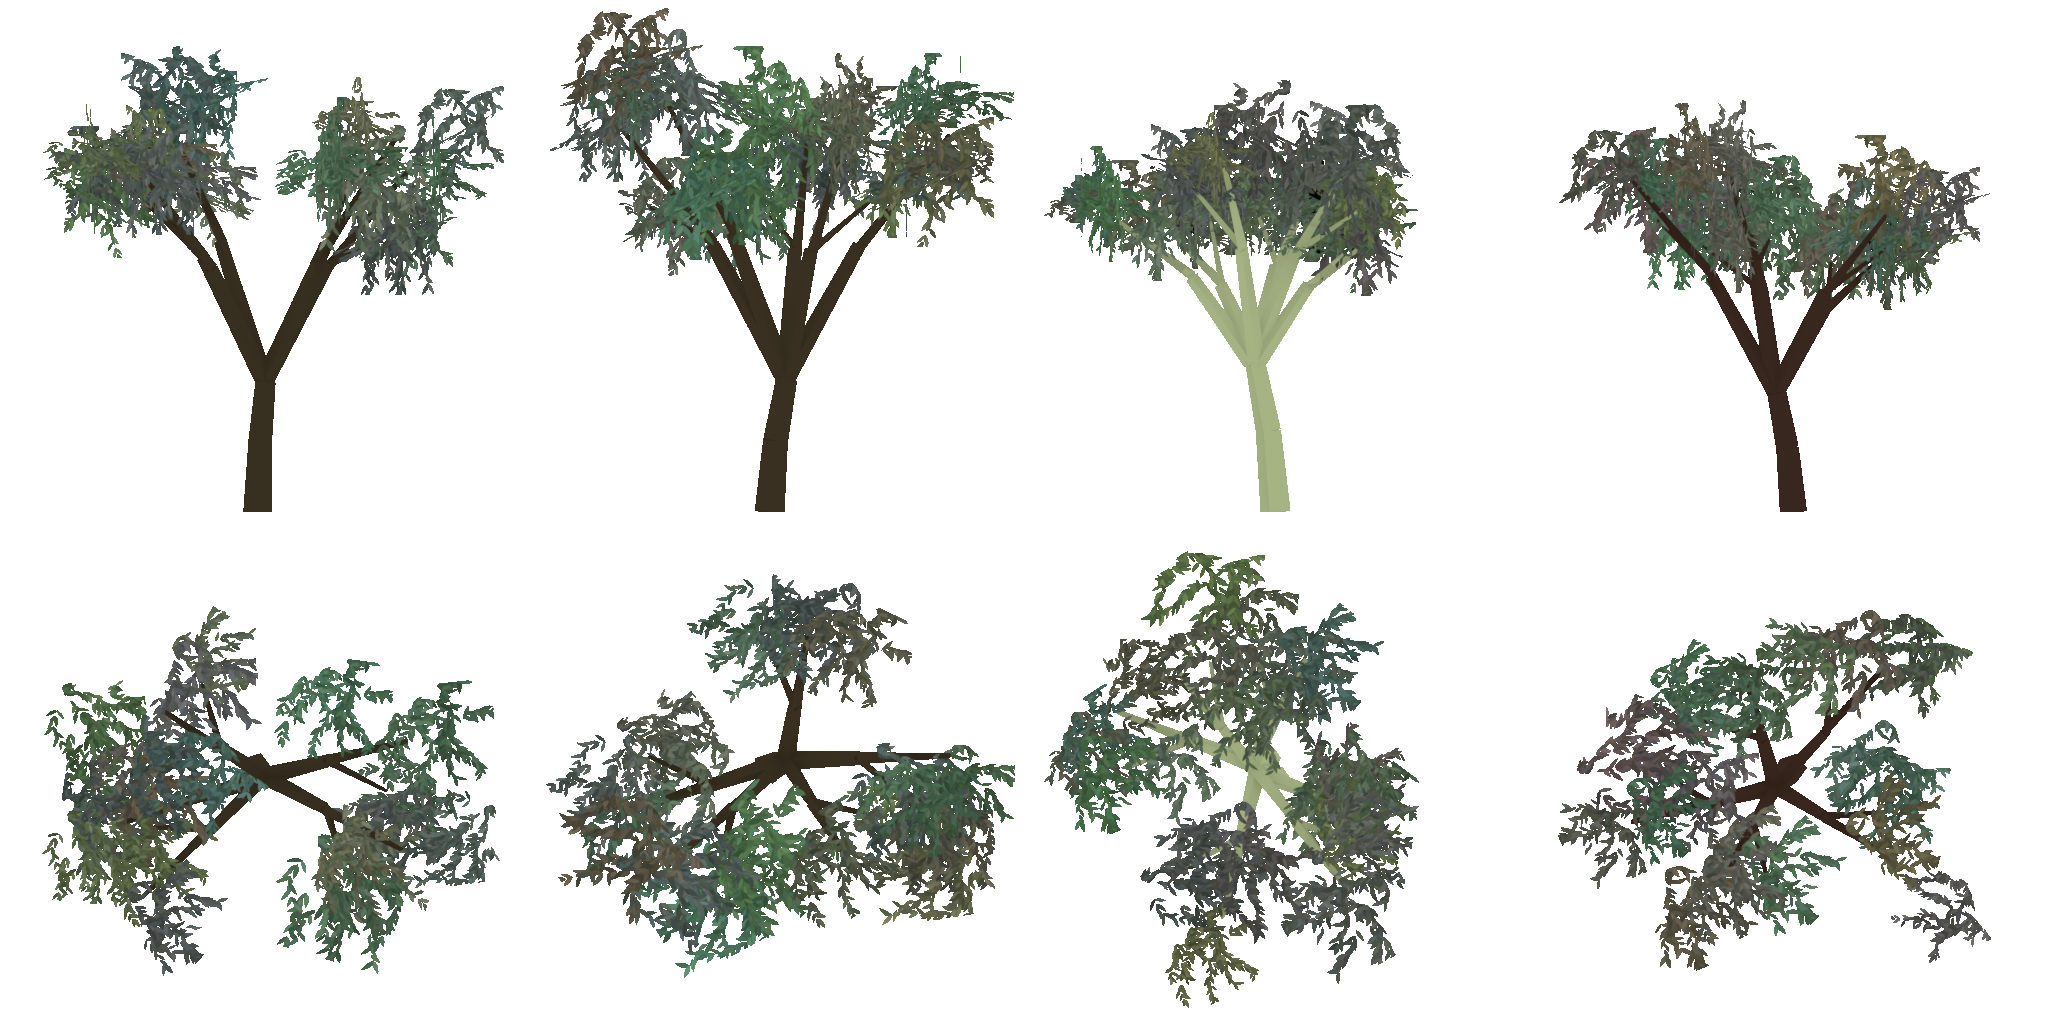
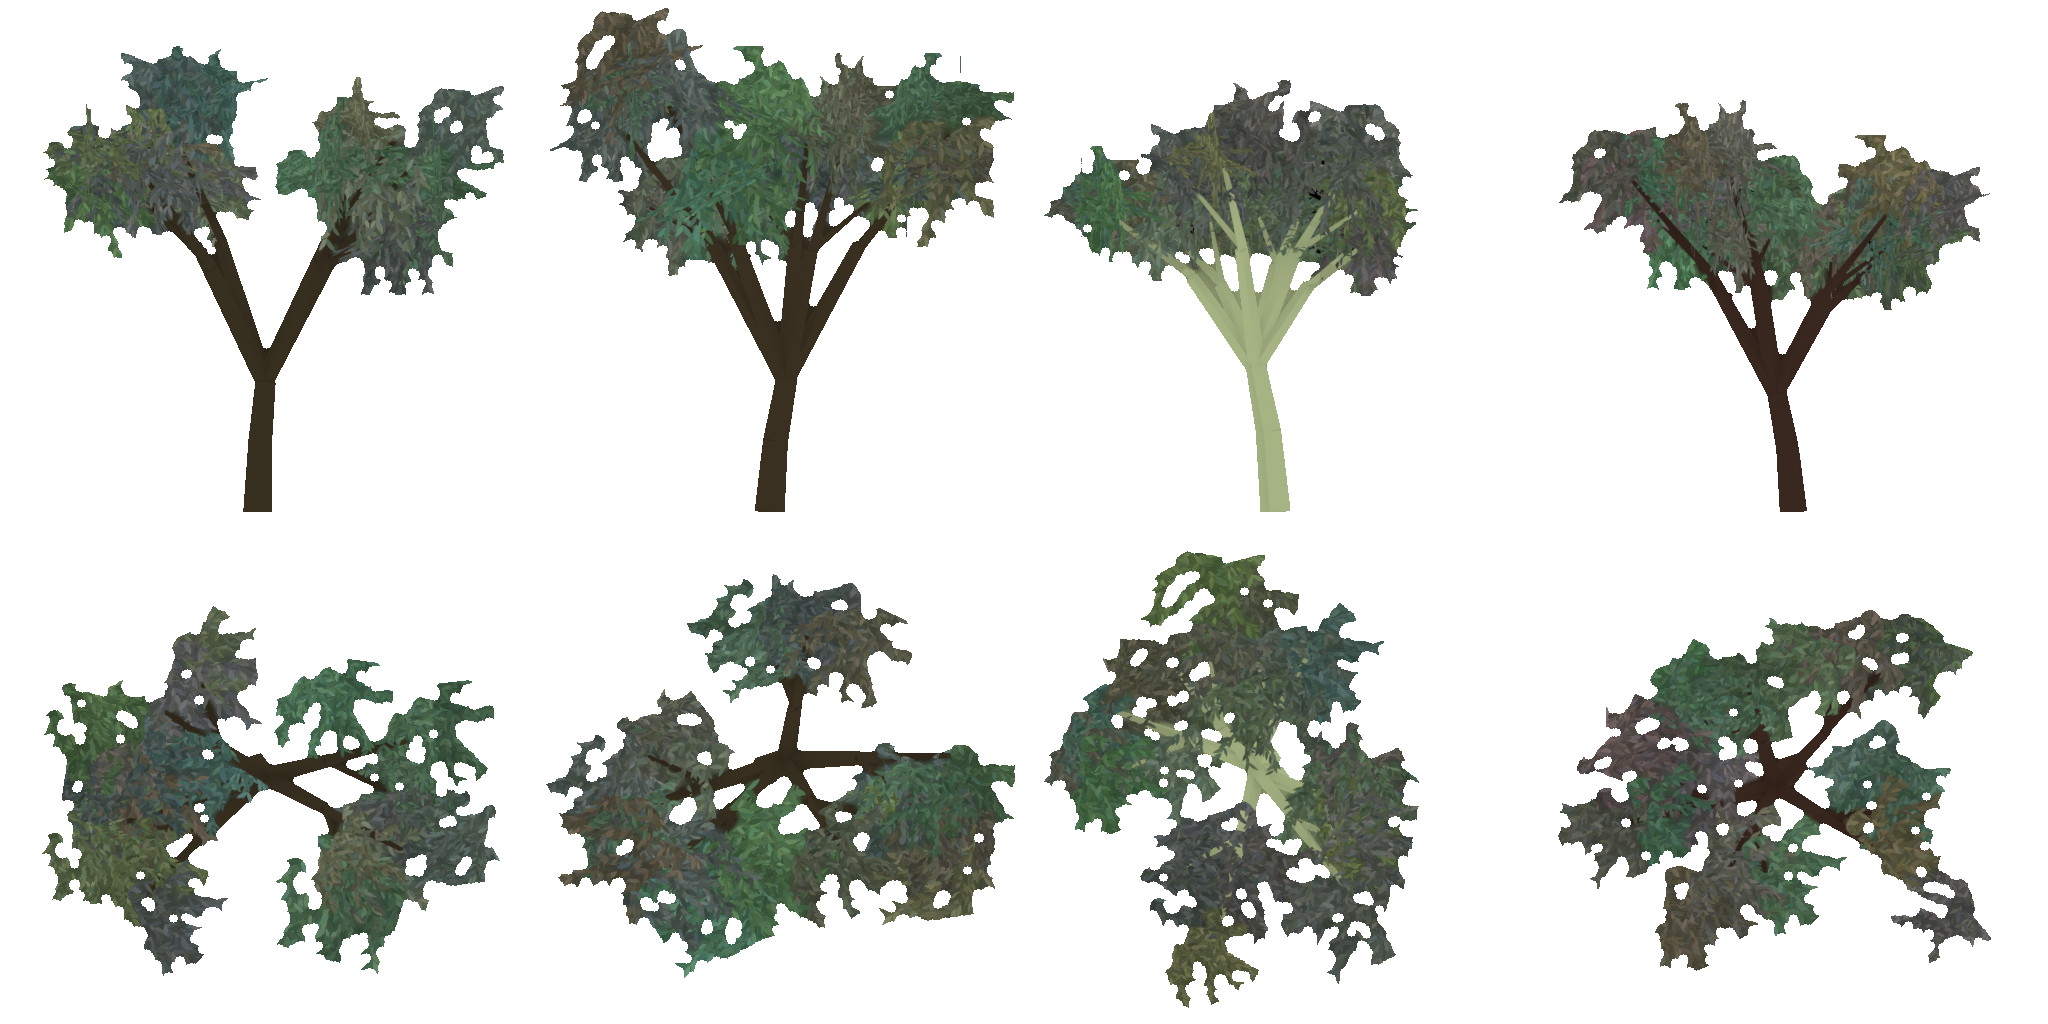
Traeger backdrop: gums lit (leaf-card shader), Microsoft footprints for buildings OSM lacks, label-free flat nadir shots
The standard material's alpha scissor drew backdrop leaf cards black under the match light;
one-sided cut-out backdrop materials now go through oval3d_backdrop_leaf.gdshader. near.py adds
~500 buildings from Microsoft's Global ML Building Footprints (ODbL) where OpenStreetMap has none.
ge_nadir.js turns Google Earth's labels and 3D buildings off (flat imagery, no lean); field level 573 m.
Far gum impostor crowns closed into masses; preinspect_look can wait longer (PREINSPECT_FRAMES).

Claude-Session: https://claude.ai/code/session_019pCf9d7p4LXdEznqYFG1Nq

diff --git a/tools/grounds/traeger/scene/qa/ge_nadir.js b/tools/grounds/traeger/scene/qa/ge_nadir.js
@@ -1,7 +1,7 @@
 // Google Earth straight-down views for mosaic.py (measuring only: the shots stay out of the repo).
 //   node ge_nadir.js nadir.json OUTDIR FROM TO      (two processes on halves of the list go twice as fast)
 // A fresh page per view; Google Earth's popups are found and closed by find_popup.py, and a shot under
-// 1.8 MB (the globe, or tiles still loading) is taken again.
+// MIN_BYTES (the globe, or tiles still loading) is taken again.
 const { chromium } = require('playwright');
 const path = require('path');
 const fs=require('fs'); const cp=require('child_process');
@@ -19,6 +19,12 @@ const fs=require('fs'); const cp=require('child_process');
         await p.goto(url, {timeout:90000});
         await p.waitForTimeout(40000);
         await p.keyboard.press('Escape');
+        // Basemap settings (Ctrl+B): "Clean" (no place names or pins, which would be traced as ground)
+        // and 3D buildings off (flat imagery with no lean); then close the panel and let the tiles load.
+        await p.keyboard.press('Control+b'); await p.waitForTimeout(2500);
+        await p.mouse.click(288,396); await p.waitForTimeout(800);
+        await p.mouse.click(273,840); await p.waitForTimeout(800);
+        await p.mouse.click(296,131); await p.waitForTimeout(8000);
         for (let k=0;k<3;k++) {
           const tmp=`${outd}/_tmp_${from}.png`;
           await p.screenshot({path: tmp});
@@ -28,7 +34,7 @@ const fs=require('fs'); const cp=require('child_process');
         }
         await p.waitForTimeout(2500);
         const buf = await p.screenshot({path: `${outd}/${v.name}.png`});
-        ok = buf.length > 1800000;
+        ok = buf.length > parseInt(process.env.MIN_BYTES||'1800000');
         console.log('shot', v.name, buf.length, ok);
       } catch(e){ console.log('fail',v.name,e.message); }
       await p.close();

diff --git a/tools/grounds/traeger/scene/near.py b/tools/grounds/traeger/scene/near.py
@@ -6,12 +6,14 @@
   the stadium and following the real heights from 350 m out (Billy Goat Hill to the east, the rise to the
   ranges), painted by paint.py: an inner map 500 m a side at 0.24 m a pixel round the stadium and an outer
   map 2.6 km a side at 1.27 m.
-- Buildings: every OpenStreetMap footprint outside the stadium model (bldg.py), each roof in its colour off
+- Buildings: every OpenStreetMap footprint outside the stadium model, and Microsoft's footprints for the
+  ~500 that OpenStreetMap lacks (bldg.py), each roof in its colour off
   Google Earth's straight-down views (MOSAIC: the mosaic of them, 0.5 m a pixel, see qa/README).
 - Gums: every canopy in those views (canopy.py) stood up as a tree (trees.py).
 
 Model metres (x east, y up, z south), the field's level at 0. Looks only. Map data (c) OpenStreetMap
-contributors (ODbL); Contains modified Copernicus Sentinel data 2025.
+contributors (ODbL); Microsoft Global ML Building Footprints (ODbL); Contains modified Copernicus Sentinel
+data 2025. Needs shapely.
 """
 import math
 import os
@@ -188,6 +190,7 @@ def main(path, mosaic):
         if r > R_OUT - 20 or in_model(mm, p):
             continue
         blds.append((wid, t, p, r))
+    blds += _ms_extra(blds, mm)
     # trees
     if mos:
         roofm = surface.roof_mask(mos, [(t, p, wid) for wid, t, p, _ in blds], _storeys)
@@ -264,6 +267,27 @@ def main(path, mosaic):
     w.save(path)
     tris = len(F) + sum(len(b.F) for b in list(B.walls.values()) + [B.roof, B.trim, B.glass]) + len(Fo.leaf.F) + len(Fo.bark.F) + len(Fo.far.F)
     print("near", path, "buildings", B.count, "trees", Fo.n, "triangles", tris)
+
+
+def _ms_extra(blds, mm):
+    """The buildings OpenStreetMap lacks (some 500 houses, sheds and carports round the ground): Microsoft's
+    footprints (geo.ms_buildings) that no OpenStreetMap building already covers by a third or more."""
+    from shapely.geometry import Polygon
+    from shapely.strtree import STRtree
+    have = [Polygon(p).buffer(0) for _, _, p, _ in blds]
+    tree = STRtree(have)
+    out = []
+    for k, p in enumerate(geo.ms_buildings(R_OUT)):
+        g = Polygon(p).buffer(0)
+        c = np.mean(p, 0)
+        r = math.hypot(*c)
+        if r > R_OUT - 20 or g.area < 6.0 or in_model(mm, p) or on_field(*c):
+            continue
+        if sum(g.intersection(have[i]).area for i in tree.query(g)) >= g.area / 3:
+            continue
+        out.append(("ms%d" % k, {"building": "yes"}, p, r))
+    print("buildings from Microsoft's footprints:", len(out))
+    return out
 
 
 def _slabs(cv, d, blds):

diff --git a/tools/grounds/traeger/scene/impostor.py b/tools/grounds/traeger/scene/impostor.py
@@ -36,6 +36,28 @@ def build(path):
     w.save(path)
 
 
+def fill_crowns(a):
+    """A far gum's crown as the eye takes it in at a distance: one ragged mass, not single leaves. The gaps
+    between sprays narrower than 10 cm a pixel x 9 are closed with the colour of the leaves round them, a
+    little darker (the inside of the crown). Without it the texture's smaller mipmaps average the sprays'
+    alpha under the cut and a distant gum drew as its bare dark limbs. Under transparent texels, the mean
+    leaf colour (no dark fringe when the texture is filtered)."""
+    import cv2
+    m = a[..., 3] > 128
+    ker = cv2.getStructuringElement(cv2.MORPH_ELLIPSE, (9, 9))
+    closed = cv2.morphologyEx(m.astype(np.uint8), cv2.MORPH_CLOSE, ker).astype(bool)
+    closed = cv2.morphologyEx(closed.astype(np.uint8), cv2.MORPH_OPEN,
+                              cv2.getStructuringElement(cv2.MORPH_ELLIPSE, (3, 3))).astype(bool) | m
+    w = cv2.GaussianBlur(m.astype(np.float32), (0, 0), 3)
+    col = np.stack([cv2.GaussianBlur(a[..., c] * m, (0, 0), 3) for c in range(3)], -1) / np.maximum(w, 1e-4)[..., None]
+    new = closed & ~m
+    a[new, :3] = col[new] * 0.85
+    mean = a[m][:, :3].mean(0)
+    a[~closed, :3] = mean
+    a[..., 3] = np.where(closed, 255, 0)
+    return a
+
+
 def render(glb_path, out):
     import bpy
     bpy.ops.wm.read_factory_settings(use_empty=True)
@@ -136,12 +158,7 @@ def render(glb_path, out):
     atlas = Image.new("RGBA", (CELL * len(VARIANTS), CELL * 2), (0, 0, 0, 0))
     for k, t in enumerate(tiles):
         atlas.paste(Image.open(t).convert("RGBA"), ((k % len(VARIANTS)) * CELL, (k // len(VARIANTS)) * CELL))
-    # under transparent texels, the mean leaf colour (no dark fringe when the texture is filtered)
-    a = np.asarray(atlas).astype(np.float32)
-    m = a[..., 3] > 128
-    mean = a[m][:, :3].mean(0)
-    a[~m, :3] = mean
-    a[..., 3] = np.where(m, 255, 0)
+    a = fill_crowns(np.asarray(atlas).astype(np.float32))
     Image.fromarray(a.astype(np.uint8)).save(out)
     import json
     json.dump(sides, open(out[:-4] + ".json", "w"))

diff --git a/tools/grounds/traeger/scene/canopy.py b/tools/grounds/traeger/scene/canopy.py
@@ -1,8 +1,10 @@
 """Reading Google Earth's straight-down views of Alice Springs (the mosaic, 0.5 m a pixel over +-1,300 m,
 made by qa/mosaic.py from 35 views shot 800 m up): where each gum's canopy is and what colour each roof is.
 
-Every view is a perspective from 800 m, so anything tall leans away from the view's centre by its height /
-800 of its distance: a roof 4 m up 300 m off-centre shows 1.5 m further out. Both readings undo that lean.
+The views are shot with Google Earth's 3D buildings off (qa/ge_nadir.js), so they are its flat aerial imagery:
+nothing leans from the view's centre. With 3D on (MOSAIC_3D=1), every view is a perspective from 800 m and
+anything tall leans away from the view's centre by its height / 800 of its distance (a roof 4 m up 300 m
+off-centre shows 1.5 m further out); both readings then undo that lean.
 The mosaic is a measuring reference only; none of its pixels is drawn in the game.
 """
 import json
@@ -15,6 +17,7 @@ from scipy import ndimage
 
 R, K = 1300.0, 2.0
 CAM_H = 800.0
+LEAN = os.environ.get("MOSAIC_3D") == "1"      # the mosaic was shot with 3D buildings on
 HERE = os.path.dirname(os.path.abspath(__file__))
 
 
@@ -33,6 +36,8 @@ class Mosaic:
         return self.centres[int(np.argmin(d))]
 
     def lean(self, e, n, h):
+        if not LEAN:
+            return e, n
         c = self._centre(e, n)
         return e + (e - c[0]) * h / CAM_H, n + (n - c[1]) * h / CAM_H
 
@@ -95,6 +100,8 @@ class Mosaic:
 
 
 def _unlean(mo, e, n, h):
+    if not LEAN:
+        return e, n
     c = mo._centre(e, n)
     f = h / CAM_H
     return (e + f * c[0]) / (1 + f), (n + f * c[1]) / (1 + f)

diff --git a/tools/grounds/traeger/scene/trees.py b/tools/grounds/traeger/scene/trees.py
@@ -155,9 +155,9 @@ class Forest:
 
     def _clump(self, c, s, col, rng, crown_c=None):
         """Two crossed leaf cards (one upright, one tipped over) showing a spray from the leaf atlas. Each
-        card is laid twice, front and back, both with the normal pointing out from the crown's middle, so
-        the crown shades as one mass from every side (a double-sided material would turn the back face's
-        normal into the crown and draw it black)."""
+        card is laid twice, front and back, both with the same normal (out from the crown's middle and up),
+        so the crown shades as one mass from every side (a double-sided material would turn the back
+        face's normal into the crown and draw it black)."""
         cc = crown_c if crown_c is not None else c
         yaw = rng.uniform(0, math.pi)
         f = rng.uniform(0.86, 1.0)
@@ -176,8 +176,11 @@ class Forest:
             uv = [(u0, v0 + 0.5), (u0 + 0.5, v0 + 0.5), (u0 + 0.5, v0), (u0, v0)]
             ns = []
             for x in q:
+                # out from the crown's middle, leaning well up: a gum's leaves hang edge-on and pass light,
+                # so even the crown's shaded side reads grey-green from the ground, never black
                 v = x - cc + np.array([0, s * 0.6, 0])
-                ns.append(tuple(v / (np.linalg.norm(v) + 1e-9)))
+                v = 0.45 * v / (np.linalg.norm(v) + 1e-9) + np.array([0.0, 0.9, 0.0])
+                ns.append(tuple(v / np.linalg.norm(v)))
             b = self.leaf
             b.P += [tuple(x) for x in q]
             b.N += ns

diff --git a/tools/grounds/traeger/scene/geo.py b/tools/grounds/traeger/scene/geo.py
@@ -172,6 +172,31 @@ def osm(r=1400.0):
     return nodes, out
 
 
+# Microsoft's Global ML Building Footprints (ODbL): the zoom-9 quadkey tile over Alice Springs.
+MS_BUILDINGS = ("https://minedbuildings.z5.web.core.windows.net/global-buildings/2026-02-03/global-buildings.geojsonl/"
+                "RegionName=Australia/quadkey=310311130/part-00145-4feead82-d499-422b-94cb-c036c212127a.c000.csv.gz")
+
+
+def ms_buildings(r=1400.0):
+    """Footprints [(e, n)...] within r of the ground from Microsoft's building footprints, traced by machine off
+    aerial imagery: Alice Springs' OpenStreetMap lacks some 500 houses and sheds that these have."""
+    import gzip
+    import json
+    path = os.path.join(CACHE, "ms_310311130.csv.gz")
+    if not os.path.exists(path):
+        os.makedirs(CACHE, exist_ok=True)
+        req = urllib.request.Request(MS_BUILDINGS, headers={"User-Agent": "afl-ground-builder/1.0"})
+        with urllib.request.urlopen(req, timeout=120) as resp, open(path, "wb") as f:
+            f.write(resp.read())
+    out = []
+    for line in gzip.open(path, "rt"):
+        ring = json.loads(line)["geometry"]["coordinates"][0]
+        p = [tuple(float(x) for x in en(la, lo)) for lo, la in ring]
+        if math.hypot(*np.mean(p, 0)) < r:
+            out.append(p)
+    return out
+
+
 # Meta and WRI's 1 m canopy height map (2024, CC BY 4.0), one zoom-9 quadkey tile over Alice Springs.
 CHM = "https://dataforgood-fb-data.s3.amazonaws.com/forests/v1/alsgedi_global_v6_float/chm/310311130.tif"
 

diff --git a/tools/grounds/traeger/scene/surface.py b/tools/grounds/traeger/scene/surface.py
@@ -7,7 +7,7 @@ taken from it is a map of surfaces, the way a surveyor would trace one:
    red earth, buff dry grass, irrigated turf, asphalt, concrete, gravel, courts and so on. Classes come out
    of the data, so Alice Springs' own surfaces set them.
 2. What stands up off the ground is taken out: the canopies, their shade, the roofs (OpenStreetMap's
-   footprints, moved by the view's lean). Their pixels take the class of the nearest open ground.
+   footprints, moved by the view's lean when shot in 3D). Their pixels take the class of the nearest open ground.
 3. A majority filter tidies the edges (no single pixels), as a hand trace would.
 4. Each class is painted in its own median colour, with its own measured grain: fBm noise at 6 m, 1.5 m and
    0.3 m scaled to the class's own spread, and the class's broad unevenness (patchy watering, worn tracks)

diff --git a/tools/grounds/traeger/qa/ge_compare.py b/tools/grounds/traeger/qa/ge_compare.py
@@ -24,8 +24,8 @@ GROUNDS = {
     "bellerive": {"lat": -42.8773092, "lon": 147.3737365, "ge_alt": 10.0,
                   "fit": [0.31, -0.64, -0.02, 68.7, 86.9, 66.77]},
     # Traeger: the model's origin is the OSM pitch's centre (tools/grounds/traeger/scene/geo.py); Google Earth's
-    # field level is 558 m (its straight-down views from "575 a, 800 d" measure 0.515 m a pixel: 817 m up).
-    "traeger": {"lat": -23.7097309, "lon": 133.8759053, "ge_alt": 558.0,
+    # field level is 573 m (its status bar's elevation with the pointer on the oval; the DEM says 576).
+    "traeger": {"lat": -23.7097309, "lon": 133.8759053, "ge_alt": 573.0,
                 "fit": [3.62, -8.97, -0.05, -90.9, 93.26, 73.2]},
 }
 FOV = float(__import__("os").environ.get("GE_FOV", "23.5"))

diff --git a/tools/grounds/traeger/scene/README.md b/tools/grounds/traeger/scene/README.md
@@ -6,7 +6,7 @@ data and measured off Google Earth. Model metres: x east, y up, z south, origin 
 
 | Part | File | Script | What it is |
 |---|---|---|---|
-| near | `traeger_backdrop_part1.glb` | `near.py` | The ground out to 1,300 m (surfaces traced from Google Earth and painted fresh), every OSM building, every gum |
+| near | `traeger_backdrop_part1.glb` | `near.py` | The ground out to 1,300 m (surfaces traced from Google Earth and painted fresh), every building (OSM, and Microsoft's footprints where OSM has none), every gum |
 | far | `traeger_backdrop_part2.glb` | `far.py` | The land from 1,300 m to 24 km: real terrain (the MacDonnell Ranges, Heavitree Gap, Mt Gillen), coloured from Sentinel-2 |
 
 ## Build
@@ -19,12 +19,13 @@ python3 near.py ../../../../assets/grounds/traeger/traeger_backdrop_part1.glb MO
 ```
 
 `MOSAIC.png` is Google Earth's straight-down mosaic (`qa/`: `ge_nadir.js` shoots `qa/nadir.json`'s 35 views from
-800 m up, `mosaic.py` joins them at 0.5 m a pixel). It is a measuring reference: it stays out of the repo, and
+800 m up with its labels and 3D buildings off, so its flat aerial imagery; `mosaic.py` joins them at 0.5 m a
+pixel). It is a measuring reference: it stays out of the repo, and
 no pixel of it reaches the game. What is read off it:
 
 - **Surfaces** (`surface.py`): every pixel sorted into 22 surface classes by colour, the canopies, shade and
   roofs taken out, the edges tidied, then each class painted in its own colour and grain.
-- **Gums** (`canopy.py`): every canopy's place and spread, moved back by the view's lean; the height from
+- **Gums** (`canopy.py`): every canopy's place and spread, the height from
   Meta and WRI's canopy height map.
 - **Roof colours** (`canopy.py`): each roof's median colour.
 - **The colour grade** (`grade.py`, fitted by `qa/grade_fit.py`): Sentinel-2 matched to Google Earth on open land.
@@ -43,6 +44,7 @@ Without a mosaic, `near.py` paints OSM areas over Sentinel-2's colour and stands
 ## Sources and credits
 
 - Map data (c) OpenStreetMap contributors, ODbL.
+- Building footprints OpenStreetMap lacks: Microsoft Global ML Building Footprints, ODbL.
 - Contains modified Copernicus Sentinel data 2025 (scene S2B_53KLP_20251029).
 - Terrain: Terrarium tiles (AWS Open Data, Mapzen; SRTM and others).
 - Tree heights: Meta and World Resources Institute, High Resolution Canopy Height Maps (2024), CC BY 4.0.
